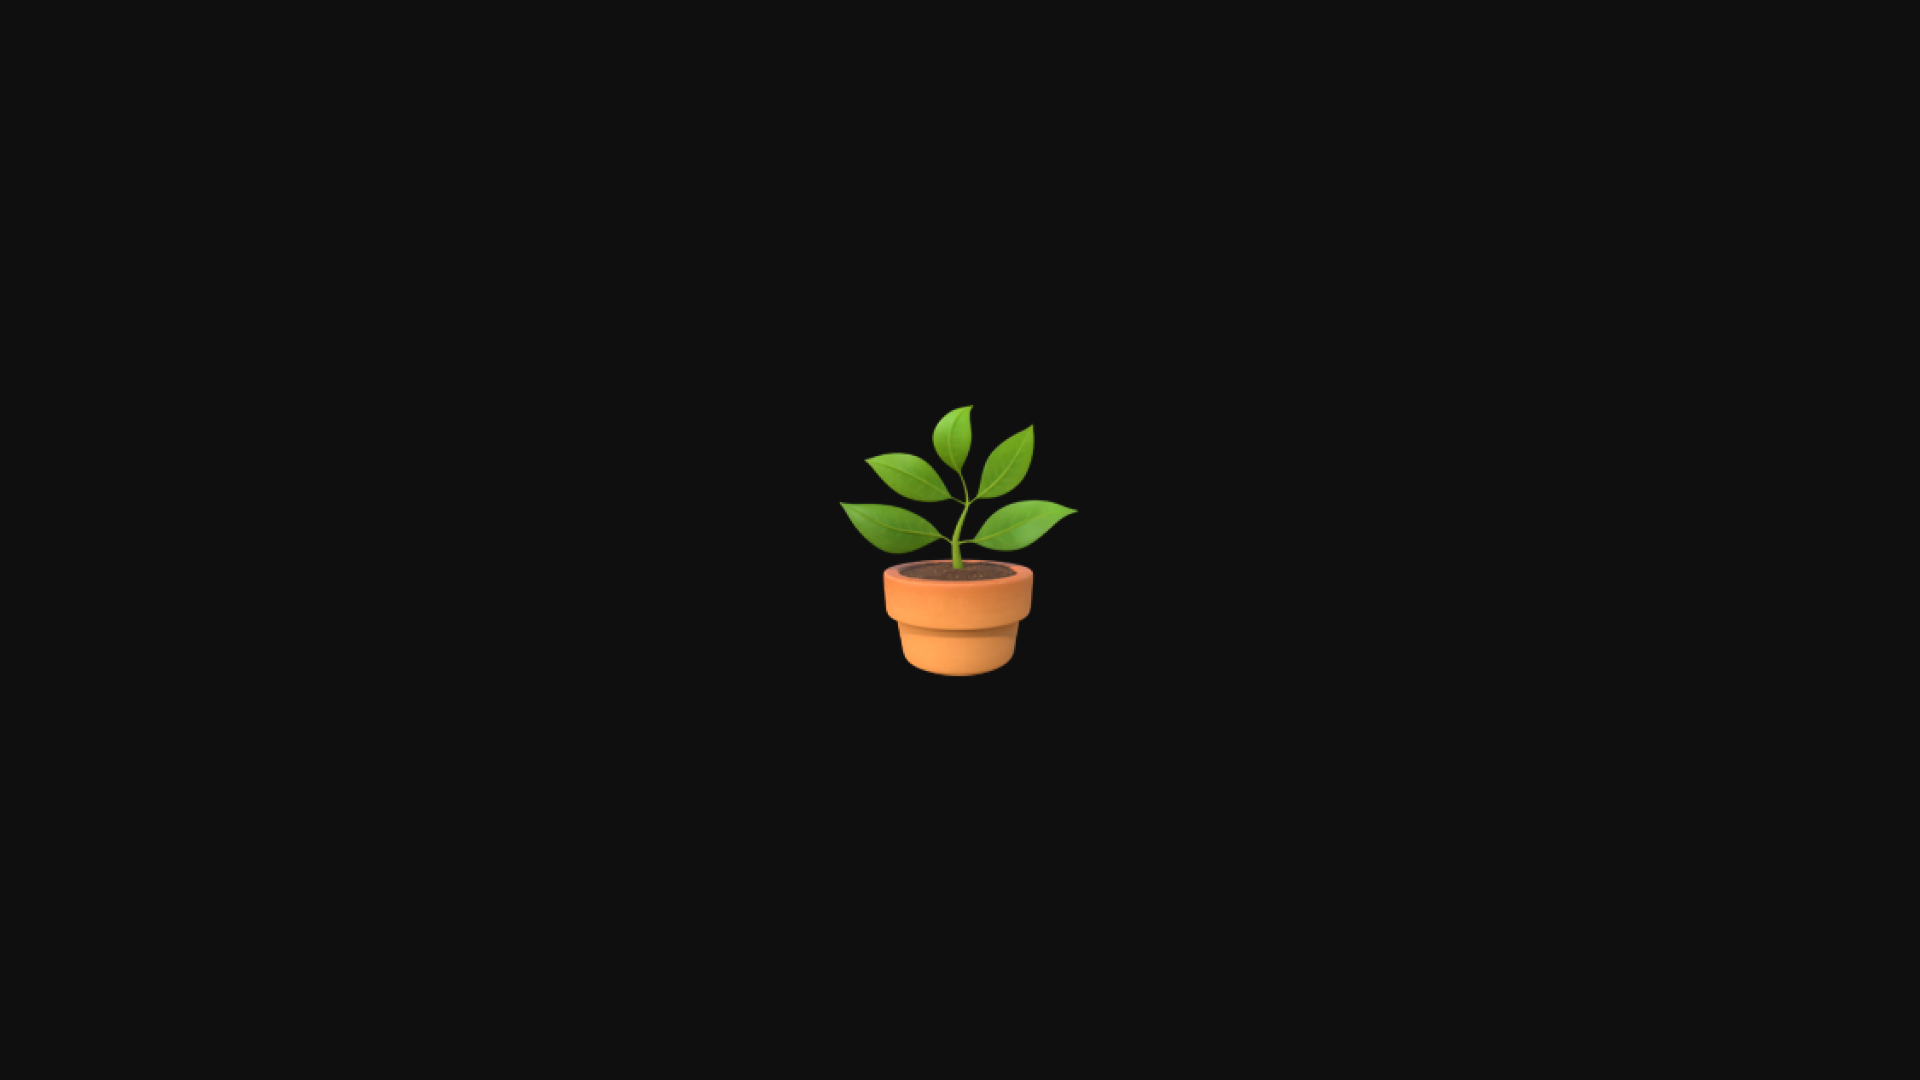
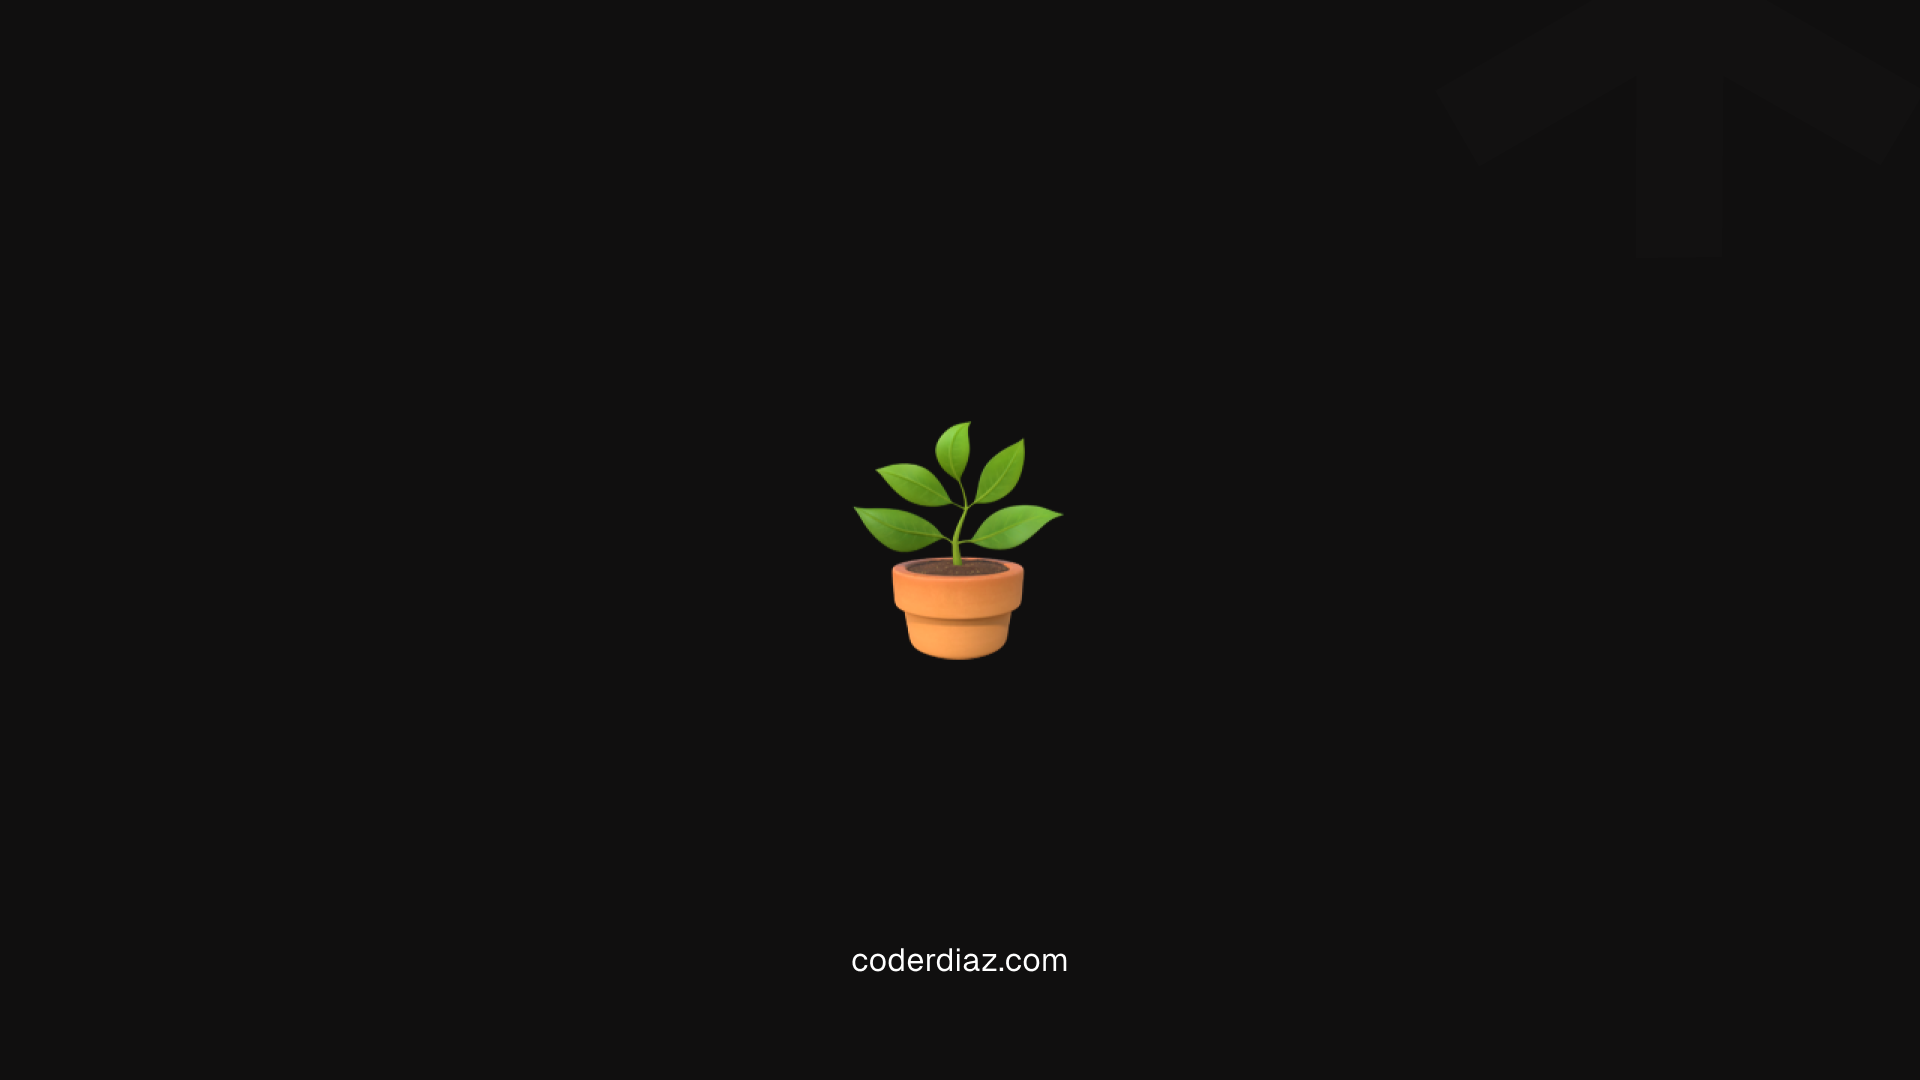
feat: changed meta image for seo

Changed region(s): [[0.4375, 0.3667, 0.5625, 0.6417], [0.4375, 0.8861, 0.5625, 0.9167]]

diff --git a/src/content/work/checkout-expanish/index.md b/src/content/work/checkout-expanish/index.md
@@ -15,7 +15,7 @@ services:
 seo:
   title: Mejorando la experiencia de compra para Expanish
   description: Diseño y desarrollo del nuevo y mejorado proceso de compra para Expanish
-  image: ./featured.png
+  image: ./meta.png
   type: article
   keywords: expanish, desarrollo web, frontend development, backend development, next.js, checkout, rediseño, diseño web, diseño ux/ui, diseño de experiencia de usuario, diseño de interfaz de usuario
 ---

diff --git a/src/content/work/academia-de-baile-aria/index.md b/src/content/work/academia-de-baile-aria/index.md
@@ -14,7 +14,7 @@ services:
 seo:
   title: Administra tu academia de baile de forma sencilla
   description: Desarrollo y diseño de una aplicación móvil para la gestión de una academia de baile.
-  image: ./featured.png
+  image: ./meta.png
   type: article
   keywords: academia de baile, software de gestión para escuelas de baile, programa gestion academia baile, software academia baile, software para academia de danza
 ---

diff --git a/src/content/work/panda-salud/index.md b/src/content/work/panda-salud/index.md
@@ -13,7 +13,7 @@ services:
 seo:
   title: Panda Salud — Acceso a estudios clínicos
   description: Diseño de interfaz y mejora de la experiencia de usuario para la plataforma de Panda Salud.
-  image: ./featured.png
+  image: ./meta.png
   type: article
   keywords: panda salud, estudios clínicos, software para estudios clínicos, software para clínicas, software para hospitales, software para laboratorios
 ---

diff --git a/src/content/work/web-expanish/index.md b/src/content/work/web-expanish/index.md
@@ -15,7 +15,7 @@ services:
 seo:
   title: Rediseño y desarrollo del sitio web expanish.com
   description: Diseño y desarrollo del nuevo sitio web para Expanish
-  image: ./featured.png
+  image: ./meta.png
   type: article
   keywords: expanish, desarrollo web, next.js, static site generation, rediseño web, diseño web, diseño ux/ui, diseño de experiencia de usuario, diseño de interfaz de usuario
 ---
